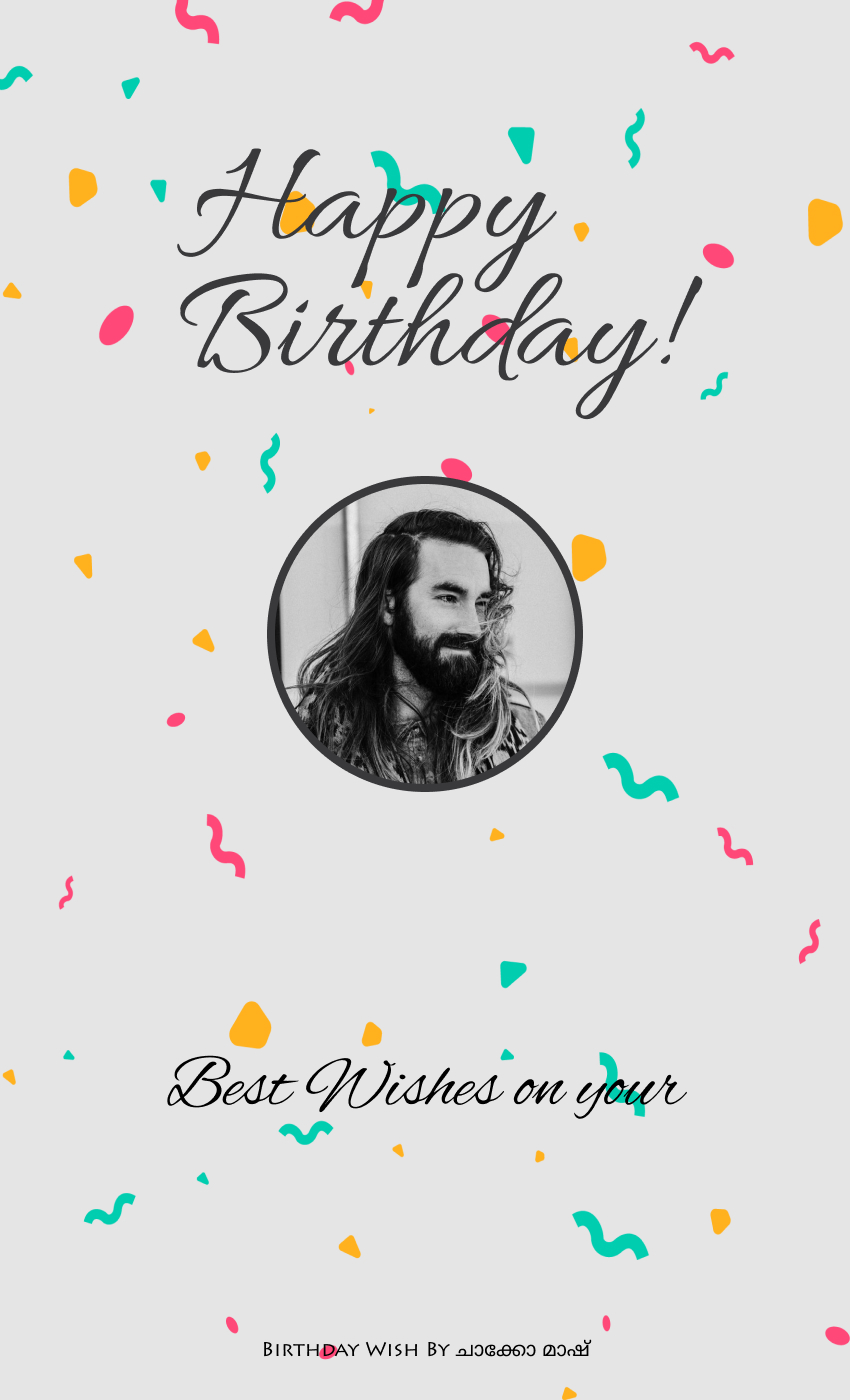
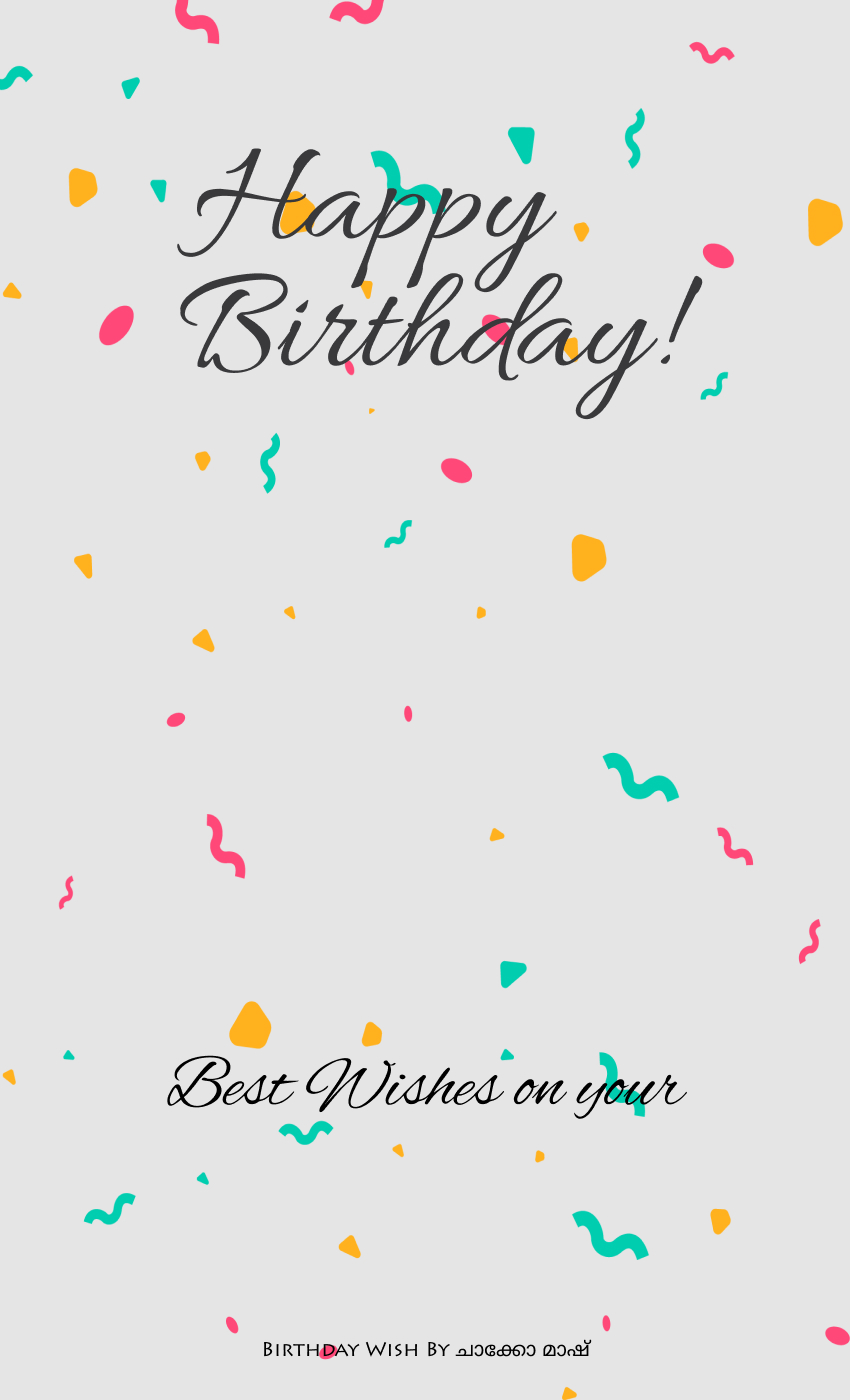
Birthday Bot Working

Changed region(s): [[0.3059, 0.3379, 0.7035, 0.5836]]

diff --git a/birthday.js b/birthday.js
@@ -11,17 +11,37 @@ module.exports = {
                 
                 var nameInput = bDayData[key]['Full Name']
                 var discordIdInput = DiscordUserData.username + '#' + DiscordUserData.discriminator
-                var AgeWish = "23rd Birthday"
+            
+                var birthYear = new Date(bDayData[key]['Date of Birth']).getFullYear();
                 
                 var avatarImage = `https://cdn.discordapp.com/avatars/${DiscordUserData.id}/${DiscordUserData.avatar}.png`
                 var gender = bDayData[key]['Gender']
                 // var discordAvatar = DiscordUserData.username
             }
         }
-        console.log(nameInput);
-        console.log(discordIdInput);
-        console.log(AgeWish);
-        console.log(avatarImage);
+        
+        var presentYear = new Date().getFullYear();
+        var age = presentYear - birthYear
+        console.log(age);
+
+        switch (age % 10) {
+            case 1 :
+                AgeWish = age + "st Birthday";
+                break;
+            case 2 :
+                AgeWish = age + "nd Birthday";
+                break;
+            case 3 :
+                AgeWish = age + "rd Birthday";
+                break;
+            default :
+                AgeWish = age + "th Birthday";
+        }
+
+        // console.log(nameInput);
+        // console.log(discordIdInput);
+        // console.log(AgeWish);
+        // console.log(avatarImage);
 
         const fs = require('fs')
         const { createCanvas, loadImage } = require('canvas')
@@ -35,30 +55,38 @@ module.exports = {
         var designTemplate = ''
         gender == 'Male' ? designTemplate = 'template_3.jpg' : designTemplate = 'template_2.jpg';
 
-        loadImage(`assets/birthday/templates/${designTemplate}`).then((image) => {
-
-            ctx.drawImage(image, 0, 0, canvas.width, canvas.height)
-            ctx.fillStyle = '#000'
-            ctx.textAlign = "center";
-            
-            ctx.font = '48px Lithos Pro Regular, sans-serif'
-            ctx.fillText(nameInput, 425, 870)
-            
-            ctx.font = '25px Lithos Pro Regular, sans-serif'
-            ctx.fillText(discordIdInput, 425, 910)
-
-            ctx.font = '96px Alex Brush, cursive'
-            ctx.fillText(AgeWish, 420, 1190)
+            loadImage(avatarImage).then((avatar) => {
+    
+                loadImage(`assets/birthday/templates/${designTemplate}`).then((image) => {
+                    
+                    ctx.drawImage(image, 0, 0, canvas.width, canvas.height)
+                    ctx.fillStyle = "#39393B";
+                    ctx.fillRect(264, 472, 323, 323);
+                    ctx.drawImage(avatar, 273, 481, 305, 305)
+                    
+                    ctx.fillStyle = '#000'
+                    ctx.textAlign = "center";
+                    
+                    ctx.font = '48px Lithos Pro Regular, sans-serif'
+                    ctx.fillText(nameInput, 425, 870)
+                    
+                    ctx.font = '25px Lithos Pro Regular, sans-serif'
+                    ctx.fillText(discordIdInput, 425, 910)
         
-            var buffer = canvas.toBuffer('image/png')
-            fs.writeFileSync('assets/birthday/output.png', buffer)
-        })
+                    ctx.font = '96px Alex Brush, cursive'
+                    ctx.fillText(AgeWish, 420, 1190)
+                
+                    var buffer = canvas.toBuffer('image/png')
+                    fs.writeFileSync('assets/birthday/output.png', buffer)
+                })
+                
+            })
 
         client.channels.cache.get(TARGET_CHANNEL).send({
             files: [`assets/birthday/output.png`]
         })
                 
-        console.log(DiscordUserData);
+        // console.log(DiscordUserData);
         // console.log(bDayData);
     }
 }
